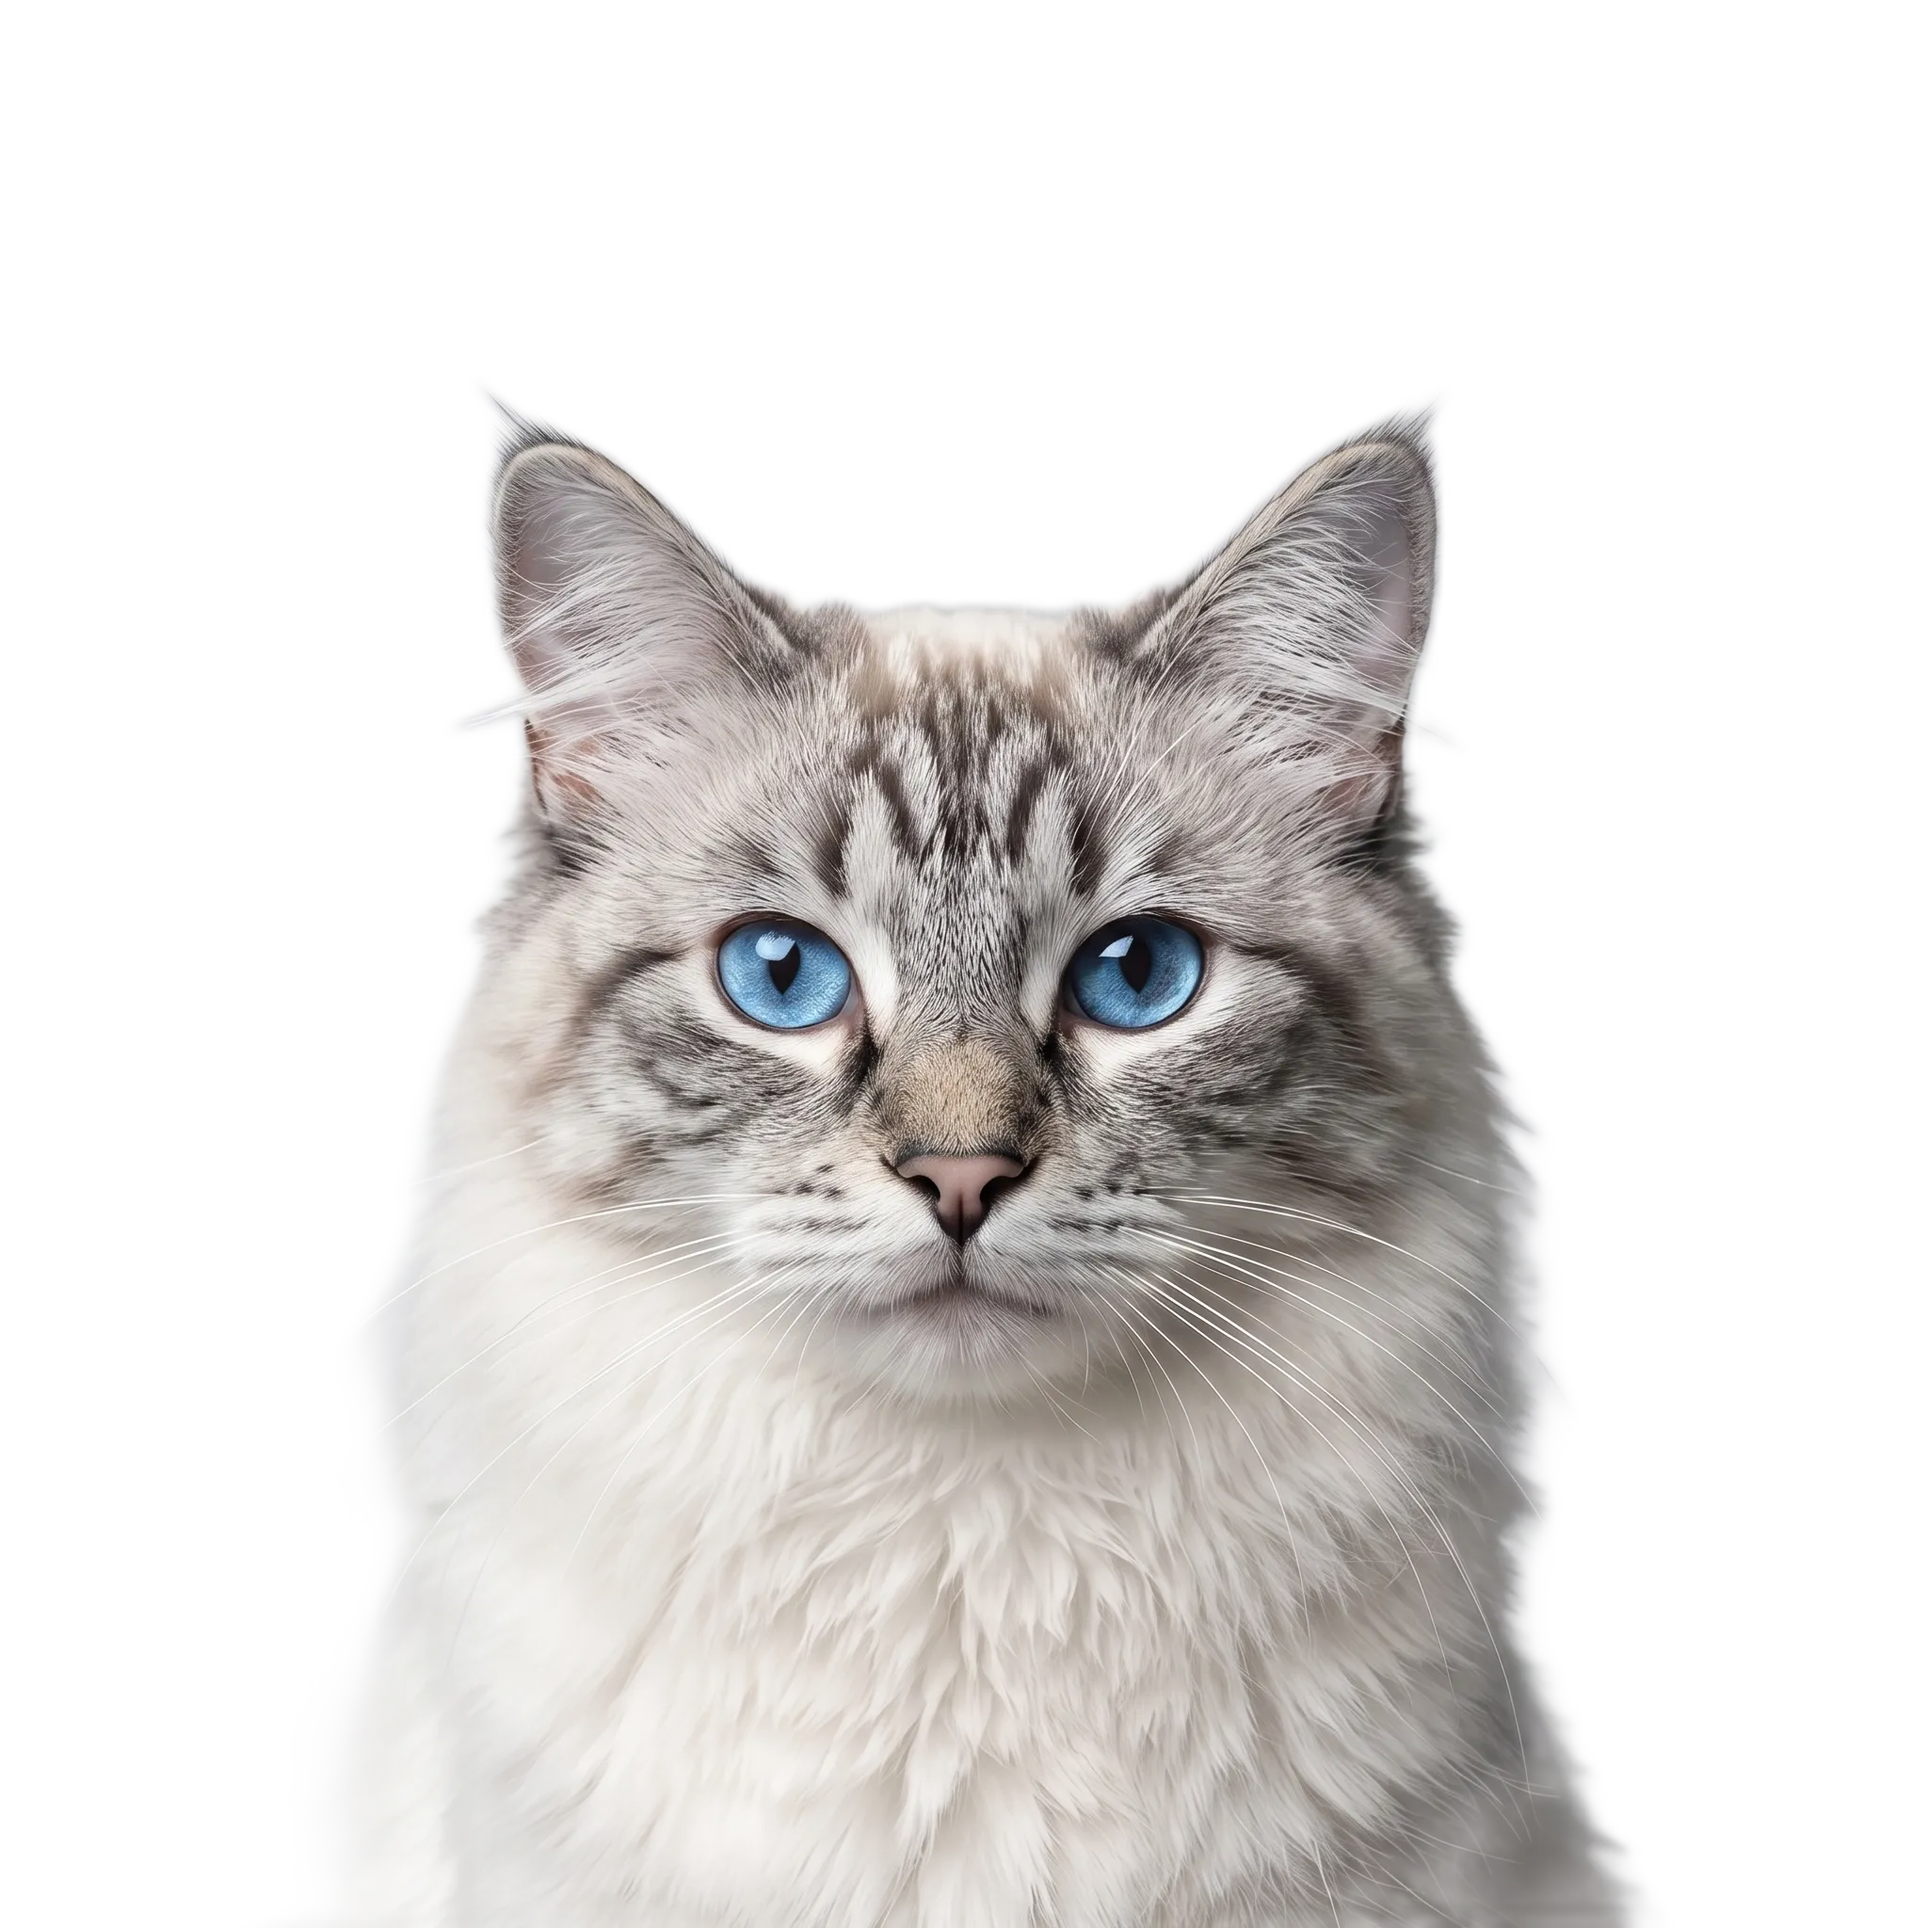
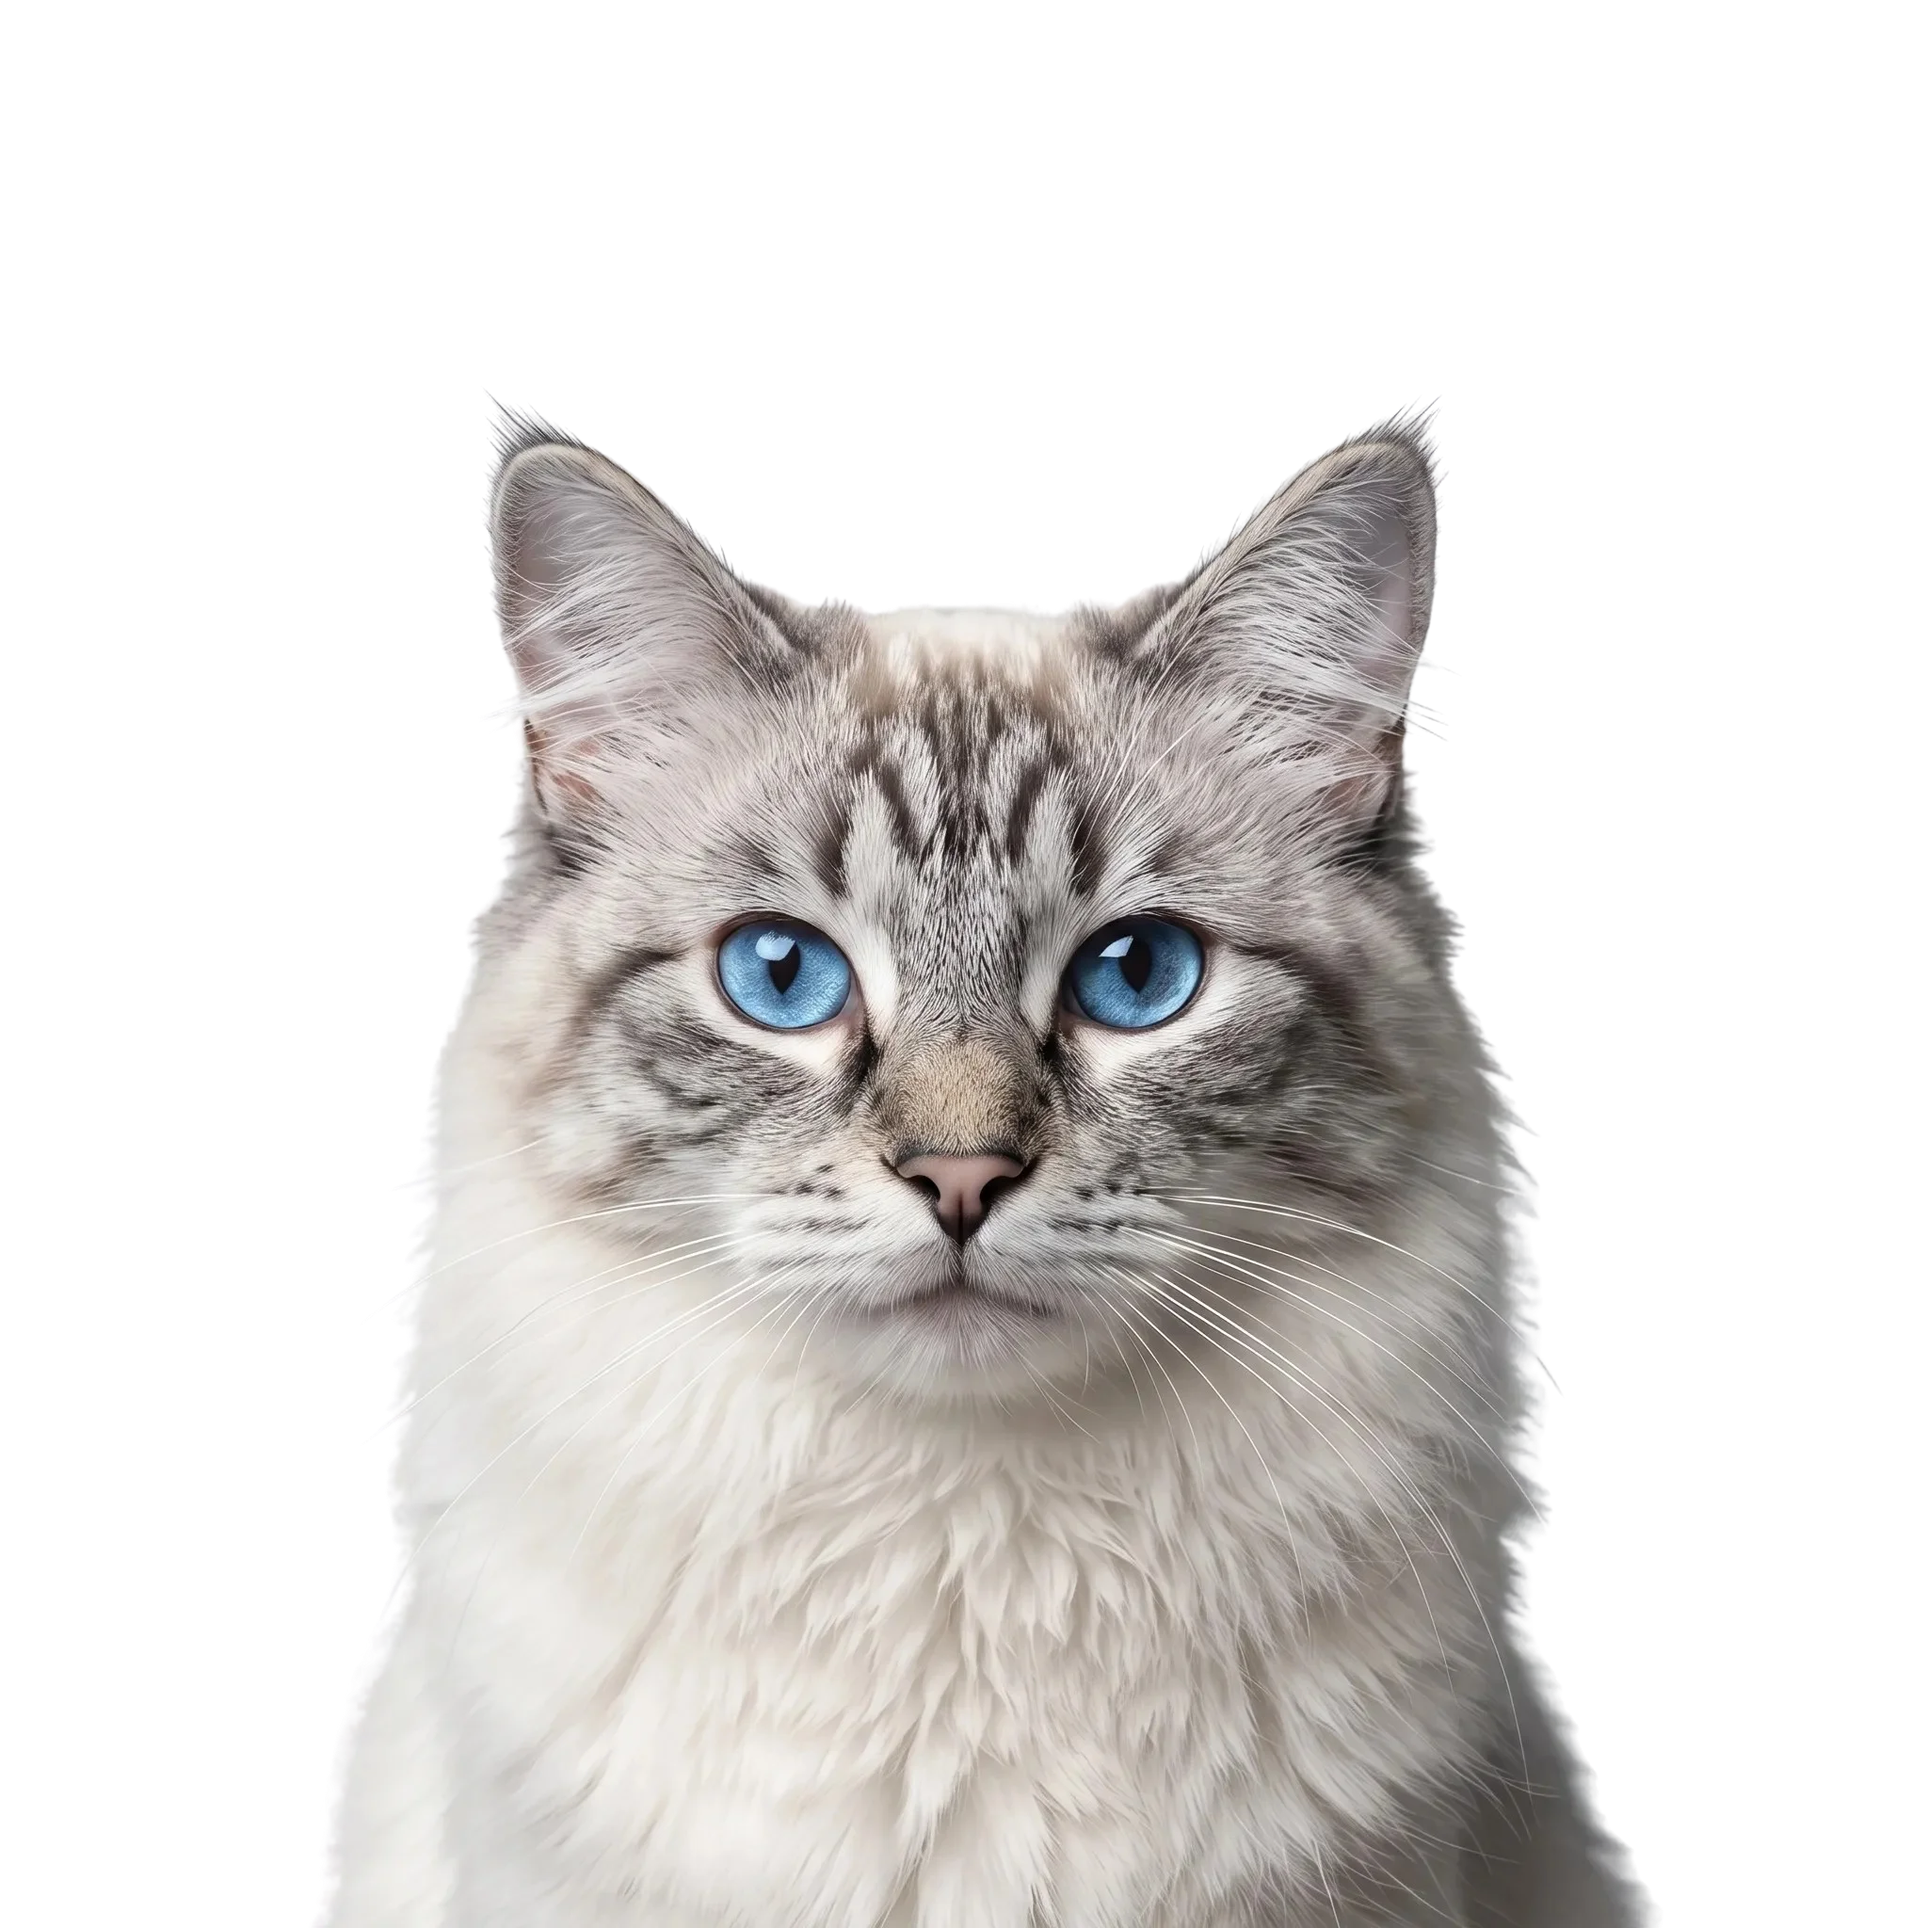
chore: replace dog and cat images with user-provided flawless cutouts, optimize to webp, and remove dark mode bgImage hacks

diff --git a/src/pages/Home.tsx b/src/pages/Home.tsx
@@ -74,8 +74,8 @@ function App() {
             className="w-full h-full relative origin-center bg-white dark:bg-[#121212] shadow-2xl overflow-hidden pointer-events-auto"
           >
             <BrushReveal
-              bgImage={isDark ? "/milo1_dark.webp" : "/milo1_nobg.webp"}
-              revealImage={isDark ? "/atreus1_dark.webp" : "/atreus1_nobg.webp"}
+              bgImage="/milo1_nobg.webp"
+              revealImage="/atreus1_nobg.webp"
               xrayImage={isDark ? "/atreusx_dark.webp" : "/atreusx_nobg.webp"}
               brushSize={180}
               revealScale={0.73}
